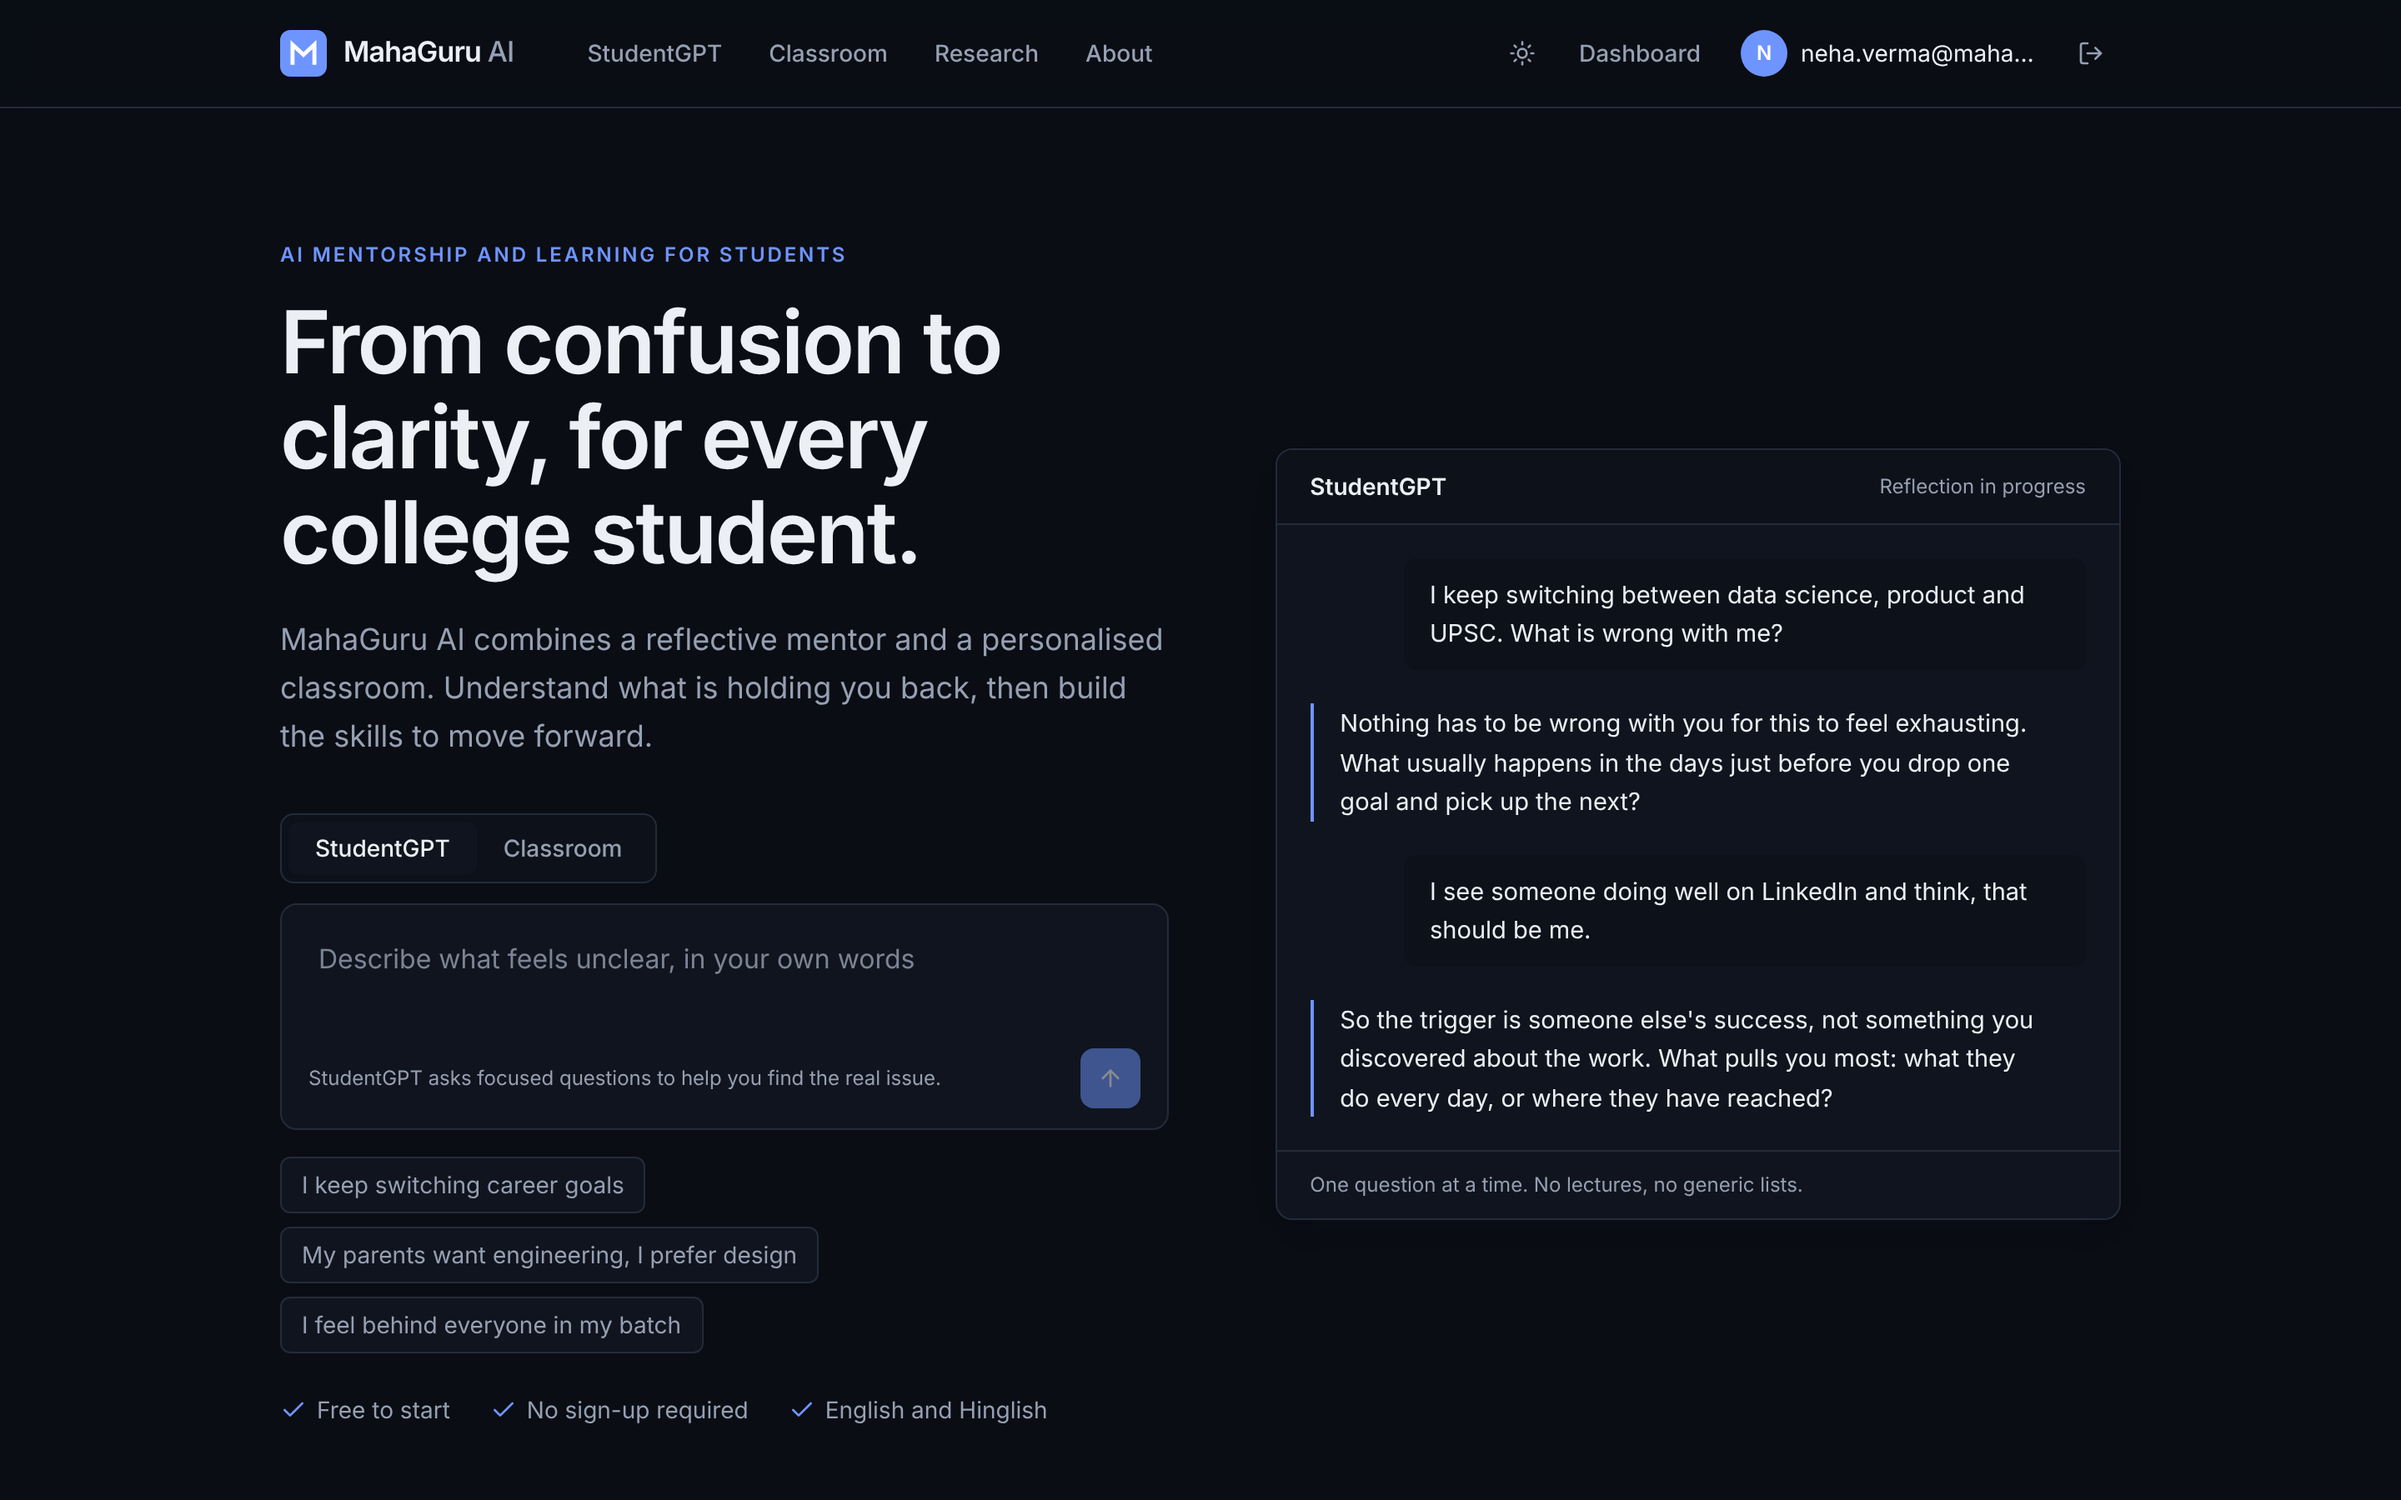
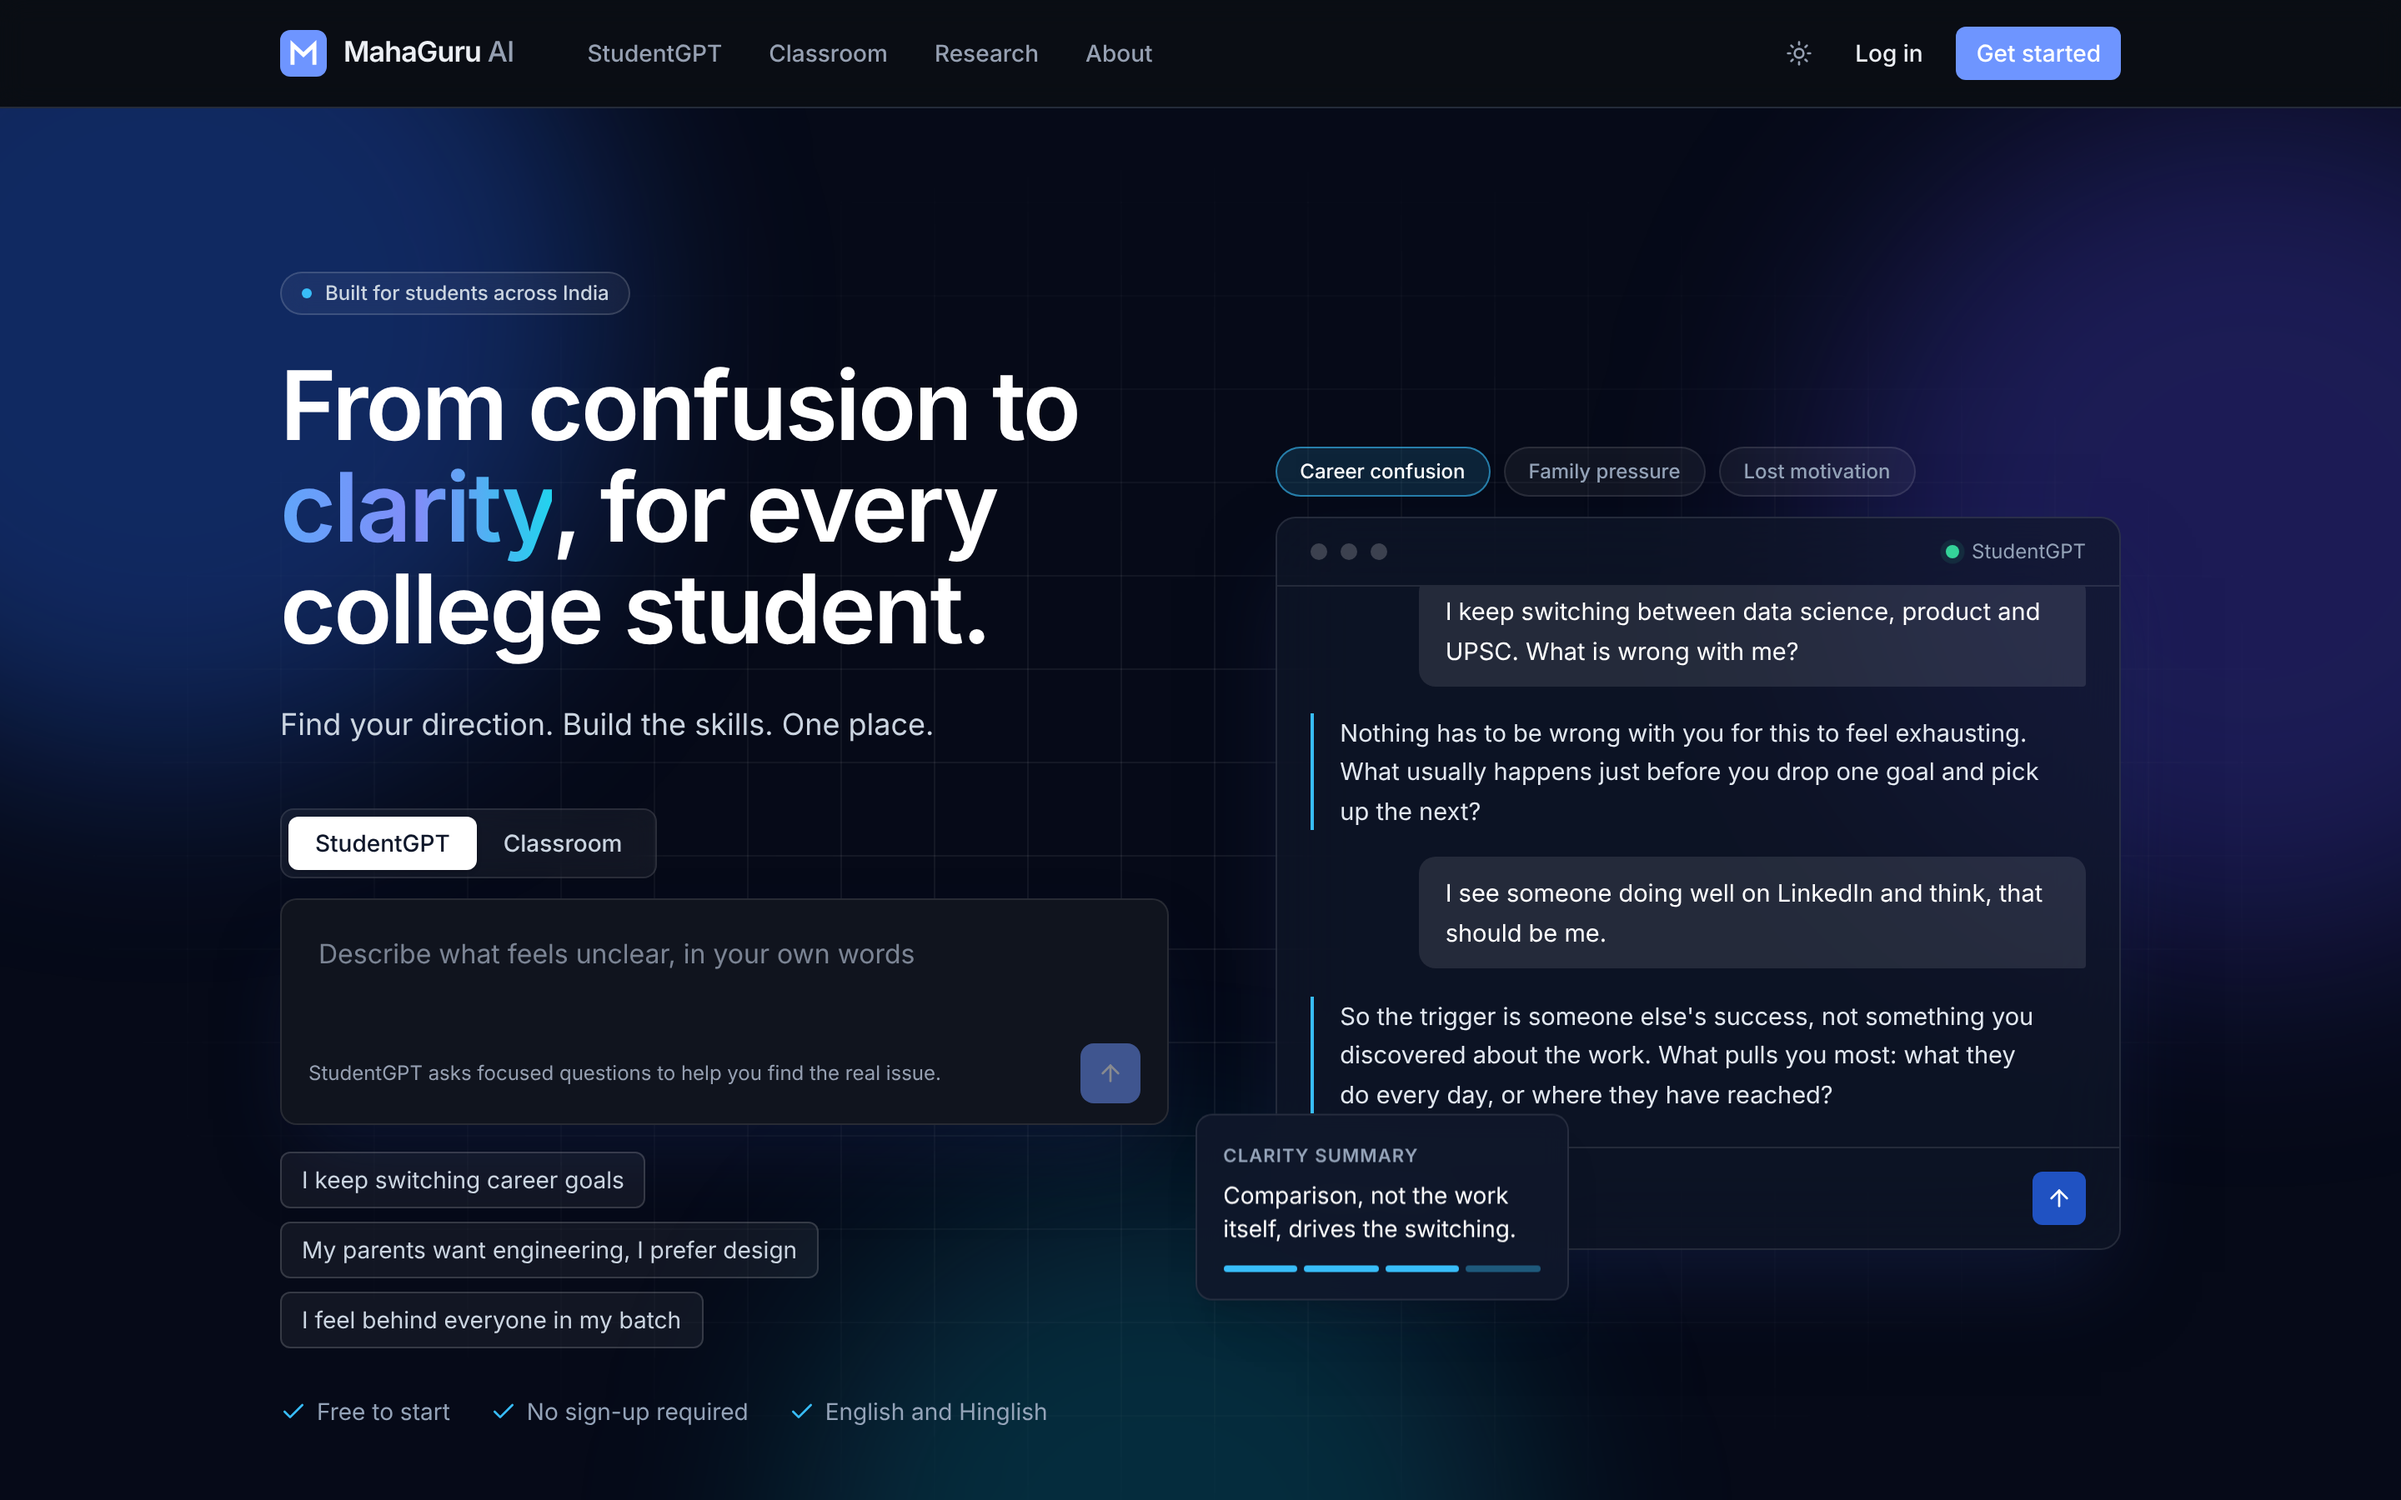
README: refresh homepage screenshots
Claude-Session: https://claude.ai/code/session_018GAWGWsjEE1WYTv8AbnUhV

diff --git a/README.md b/README.md
@@ -41,6 +41,12 @@ A clarity summary can propose a learning goal, and one click turns it into a Cla
 
 ## Screenshots
 
+### Homepage
+
+<p align="center">
+  <img src="docs/screenshots/home-products.png" alt="Interactive product switcher on the homepage" width="100%" />
+</p>
+
 ### StudentGPT
 
 <table>
